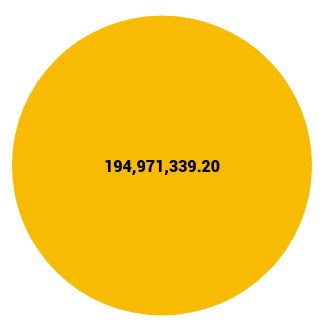
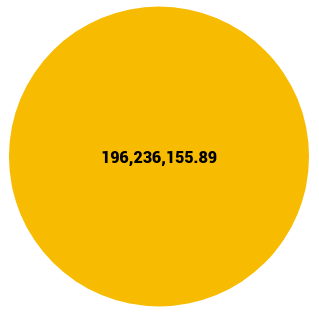
Fix img mobile visualization

diff --git a/collections/_visualization-slider/slide-5.md b/collections/_visualization-slider/slide-5.md
@@ -1,6 +1,6 @@
 ---
 title: Beneficiados con FOMIX
-image: graph4.png
+image: graph5.png
 ---
 
 # Los grandes beneficiados
